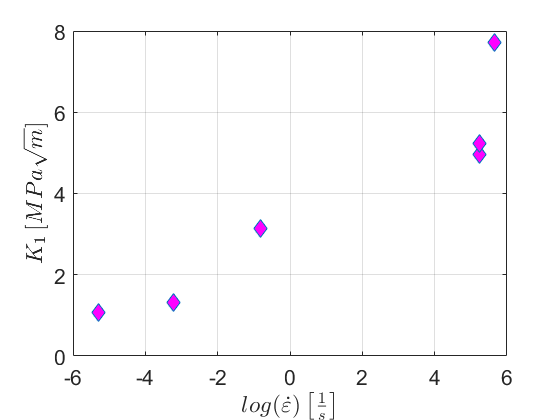
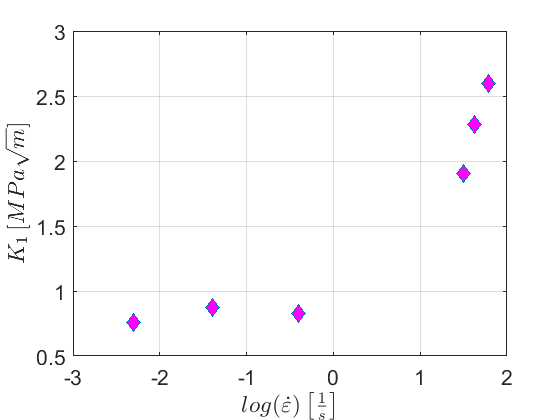
updated figures

diff --git a/Matlab/Goal1Code.m b/Matlab/Goal1Code.m
@@ -20,7 +20,7 @@ beta=angles.data(:,2);
 beta=[beta;0;0;0];
 F_Ult=zeros(length(List),2);
 rate=zeros(size(List));
-
+K1=zeros(length(List),1);
 for i=1:length(List)
     [F_Ult(i,1),F_Ult(i,2),rate(i)]=UltimateStrain(List{i});
 end
@@ -52,7 +52,7 @@ end
 %% Strain Rate Plot 1
 figure
 rate2=[rate(1:3);rate(end-2:end)];  % Takes values from tests with angle of 0
-K12=[K1(1:3);K1(end-2:end)]/1E6;    % Takes values from tests with angle of 0
+K12=[K1(1:3);K1(end-2:end)]./1E6;    % Takes values from tests with angle of 0
 h=plot(log10(rate2),K12,'d');
 ax=gca;
 grid on

diff --git a/Matlab/UltimateStrain.m b/Matlab/UltimateStrain.m
@@ -26,7 +26,7 @@ index_shift=round(time_shift/dt);
 time_shift2=L2/speed;
 index_shift2=round(time_shift2/dt);
 
-% %% Select Window
+%% Select Window
 % 
 % figure(1)
 % plot(time,v_incident,time,v_transmitted,time,v_break);
@@ -100,7 +100,7 @@ e_trans=Volt2Strain(v_trans);
 F_1=A*E.*e_diff;
 F_2=A*E.*e_trans;
 F1max=max(F_1);
-F2max=max(F_2);
+F2max=max(abs(F_2));
 S_Ult1=2*max(F_1)/(pi*D*t);
 S_Ult2=2*max(F_2)/(pi*D*t);
 

diff --git a/Matlab/QuasiStatic.m b/Matlab/QuasiStatic.m
@@ -13,8 +13,8 @@ rate=mode(strainrate);
 
 maxload=max(load);
 
-% figure; hold on
-% plot(disp,load)
+figure; hold on
+plot(disp,load)
 %plot(time(2:end),rate*ones(length(time(2:end))))
 S_Ult=max(stress); 
 
